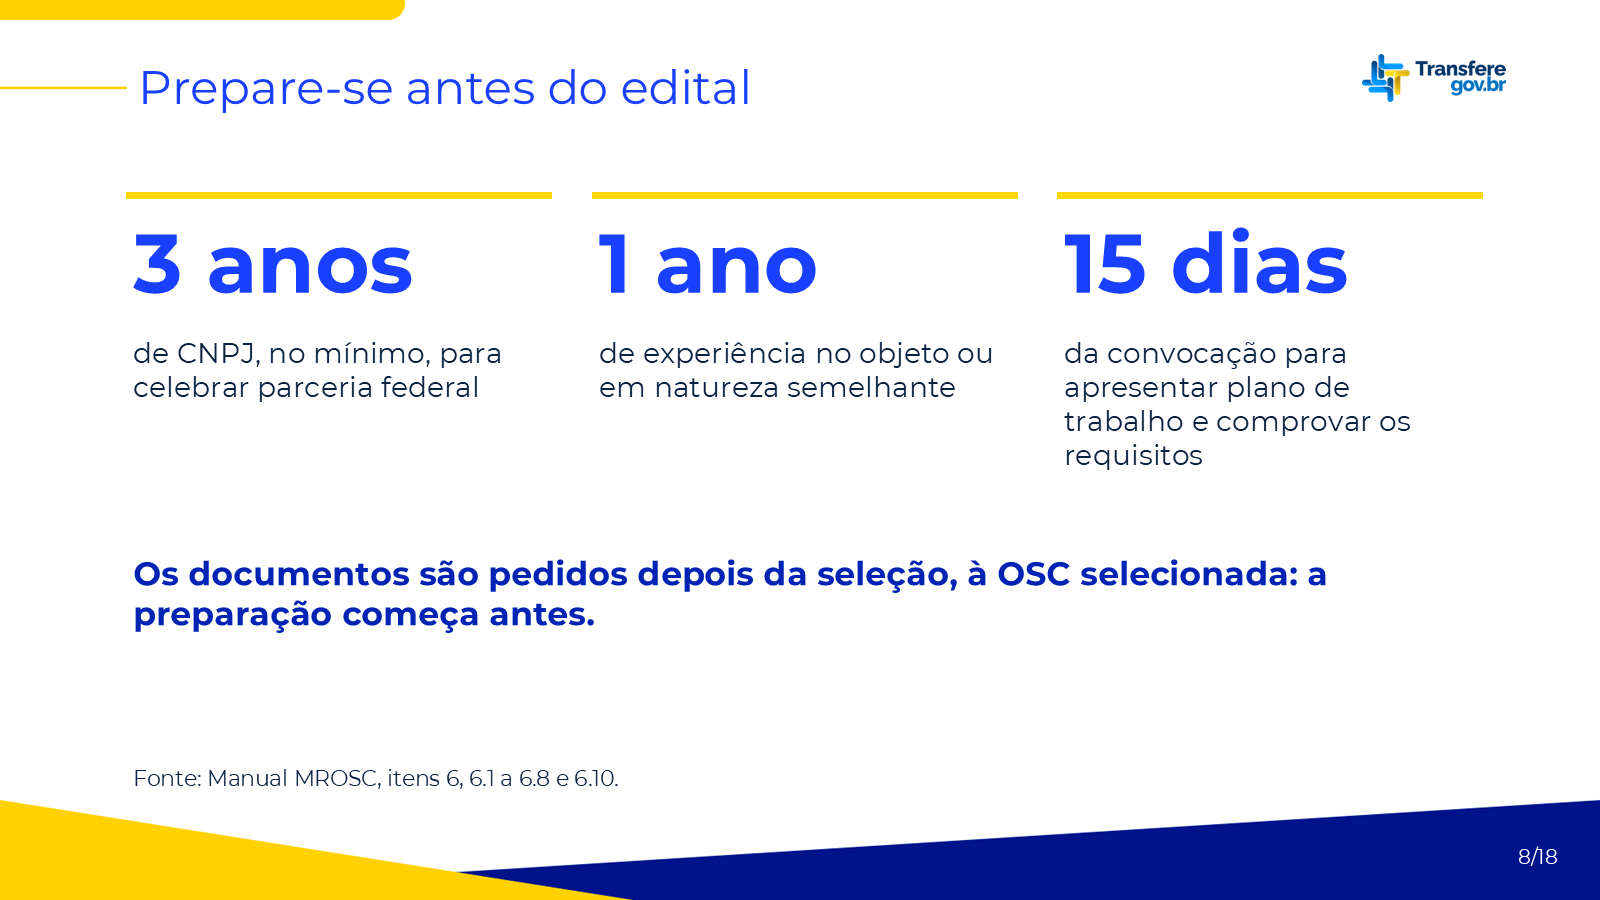
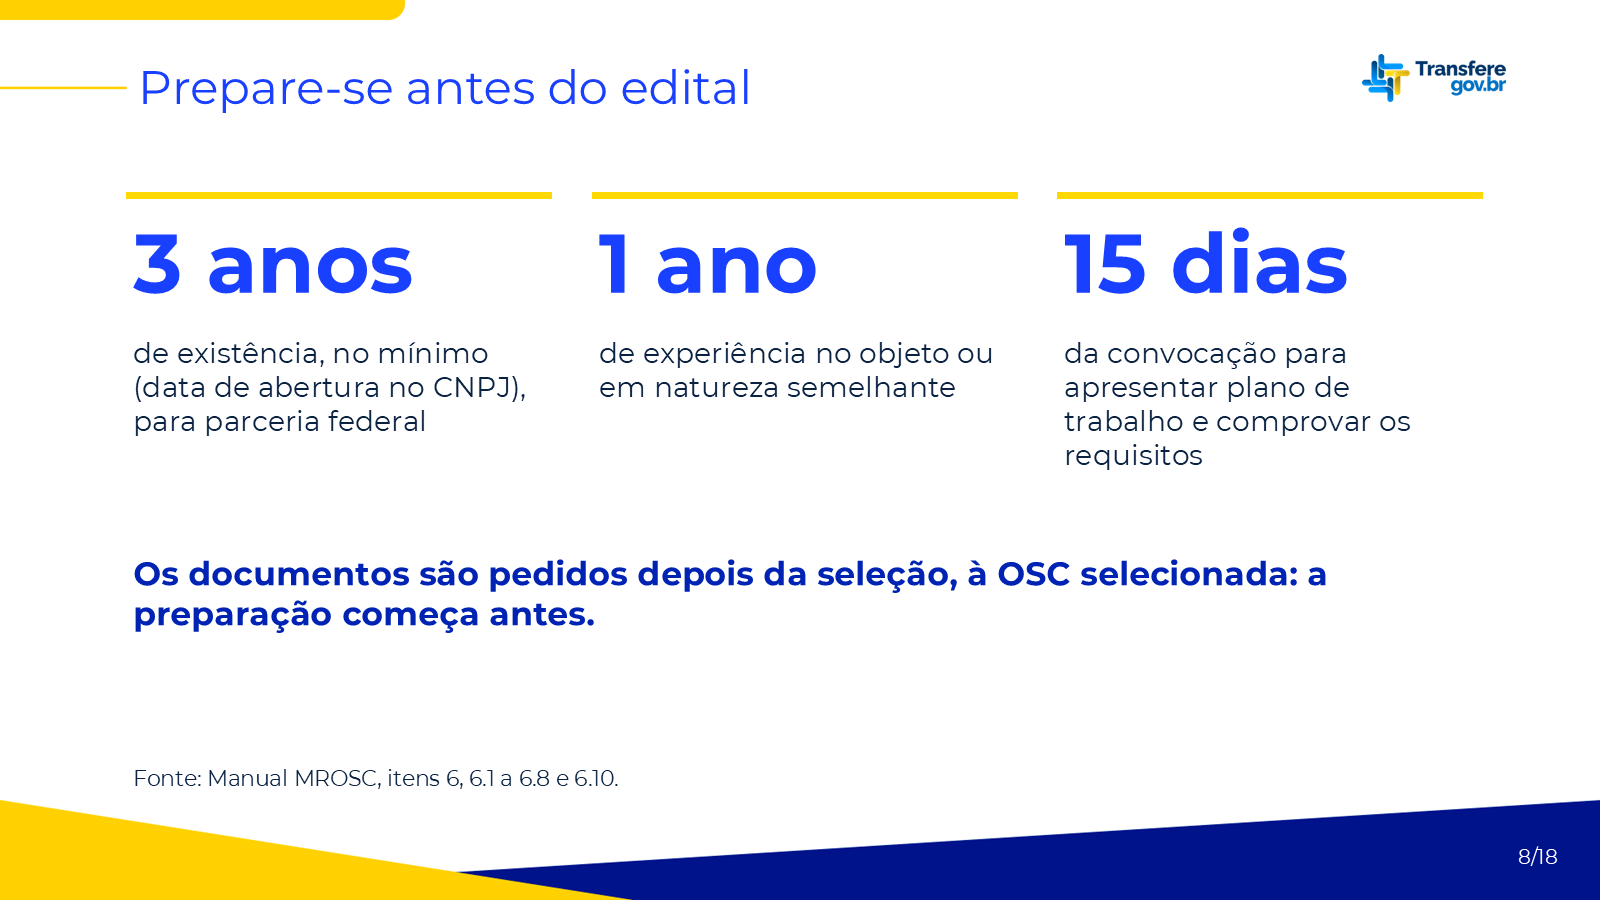
Atualiza os ajustes de precisão da landing e das apresentações
Montado da fonte 06b0997 (conteúdo de 7331dcc; o commit seguinte só mexe
nas notas do apresentador). OBTV mantida; 3 anos de existência pela data
de abertura no CNPJ, certidão vencida e não disponível on-line e prazos
com prorrogações.

Changed region(s): [[0.0938, 0.3733, 0.3125, 0.4978]]

diff --git a/docs/palestra-2-desafios.html b/docs/palestra-2-desafios.html
@@ -173,7 +173,7 @@
     <p class="leitura">Os documentos de requisitos só são pedidos <strong>depois da seleção</strong>, à OSC selecionada, que tem <strong>15 dias</strong> para apresentar o plano de trabalho e comprovar os requisitos. Irregularidade material impede a celebração. <small class="fonte">Fonte: Manual MROSC, itens 6 e 6.10.</small></p>
 
     <ul class="numeros" aria-label="Números-chave dos requisitos">
-      <li><span class="numero-valor">3 anos</span><span class="numero-legenda">de CNPJ, no mínimo, para celebrar parceria na esfera federal</span><small class="fonte">Manual MROSC, itens 6.1 a 6.8.</small></li>
+      <li><span class="numero-valor">3 anos</span><span class="numero-legenda">de existência, no mínimo (data de abertura no CNPJ), para celebrar parceria na esfera federal</span><small class="fonte">Manual MROSC, itens 6.1 a 6.8.</small></li>
       <li><span class="numero-valor">1 ano</span><span class="numero-legenda">de experiência no objeto ou em natureza semelhante, somando as comprovações</span><small class="fonte">Manual MROSC, itens 6.1 a 6.8.</small></li>
       <li><span class="numero-valor">15 dias</span><span class="numero-legenda">da convocação para apresentar o plano de trabalho e comprovar os requisitos</span><small class="fonte">Manual MROSC, item 6.</small></li>
     </ul>
@@ -183,7 +183,7 @@
         <caption id="cap-requisitos">Requisitos para celebrar parceria federal e como comprovar</caption>
         <thead><tr><th scope="col">Requisito</th><th scope="col">Exigência</th><th scope="col">Como comprovar</th></tr></thead>
         <tbody>
-          <tr><th scope="row">Tempo de existência</th><td>Mínimo de 3 anos de CNPJ, situação cadastral ativa</td><td>Data de abertura e situação no cartão CNPJ</td></tr>
+          <tr><th scope="row">Tempo de existência</th><td>Mínimo de 3 anos de existência (data de abertura no CNPJ), situação cadastral ativa</td><td>Data de abertura e situação no cartão CNPJ</td></tr>
           <tr><th scope="row">Objetivos estatutários</th><td>Promoção de atividades e finalidades de relevância pública e social</td><td>Estatuto social</td></tr>
           <tr><th scope="row">Destino do patrimônio na dissolução</th><td>Transferência a pessoa jurídica de igual natureza que cumpra a Lei nº 13.019/2014, de preferência com o mesmo objeto</td><td>Estatuto social</td></tr>
           <tr><th scope="row">Escrituração contábil</th><td>Conforme os princípios fundamentais de contabilidade e as Normas Brasileiras de Contabilidade</td><td>Estatuto, regimento interno ou declaração de contador</td></tr>
@@ -236,7 +236,7 @@
       <div class="resultado" aria-live="polite"></div>
       <div class="explicacoes" hidden>
         <p data-opcao="a">1 ano é o mínimo em municípios; em estados e no DF são 2 anos.</p>
-        <p data-opcao="b">Na esfera federal, o mínimo é de 3 anos de CNPJ, com situação cadastral ativa.</p>
+        <p data-opcao="b">Na esfera federal, o mínimo é de 3 anos de existência, contados pela data de abertura no CNPJ, com situação cadastral ativa.</p>
         <p data-opcao="c">5 anos de CNPJ é o mínimo exigido da OSC que atua em rede.</p>
       </div>
       <p class="fonte-bloco">Fonte: Manual MROSC, itens 6.1 a 6.8.</p>
@@ -255,7 +255,7 @@
           <tr><th scope="row">Seleção</th><td>Proposta sem os 4 itens mínimos</td><td>Eliminação</td><td>Conferir realidade e nexo, ações/metas/indicadores, prazos e valor global</td><td>Item 5.4</td></tr>
           <tr><th scope="row">Seleção</th><td>Submissão não concluída ou recurso fora do prazo</td><td>Proposta não enviada; recurso não conhecido</td><td>Concluir a submissão; contar 5 dias corridos</td><td>Itens 5.2 e 4.12.3</td></tr>
           <tr><th scope="row">Celebração</th><td>CNPJ com menos de 3 anos, estatuto incompleto, dirigente em situação vedada</td><td>Impede a celebração</td><td>Revisar os requisitos antes de concorrer</td><td>Itens 6, 6.1, 6.2 e 6.6</td></tr>
-          <tr><th scope="row">Celebração</th><td>Certidão vencida ou falha formal</td><td>15 dias para corrigir, sob pena de não celebração</td><td>Manter certidões em dia ou usar o CAUC</td><td>Itens 6 e 6.3</td></tr>
+          <tr><th scope="row">Celebração</th><td>Certidão vencida e não disponível on-line, ou falha formal</td><td>15 dias para corrigir, sob pena de não celebração</td><td>Manter certidões em dia ou usar o CAUC</td><td>Itens 6 e 6.3</td></tr>
           <tr><th scope="row">Execução</th><td>Recursos parados por 365 dias</td><td>Rescisão da parceria (exceção justificada se houver execução parcial)</td><td>Executar conforme o cronograma</td><td>Item 7.6</td></tr>
           <tr><th scope="row">Execução</th><td>Irregularidade na aplicação, desvio de finalidade ou medida saneadora ignorada</td><td>Retenção de parcelas</td><td>Seguir o plano e atender às orientações</td><td>Item 7.4</td></tr>
           <tr><th scope="row">Execução</th><td>Despesa com fato gerador anterior à vigência</td><td>Vedada (exceção: custo de elaboração da proposta)</td><td>Contratar só na vigência</td><td>Item 7.7.1</td></tr>

diff --git a/docs/palestra-1-captacao.html b/docs/palestra-1-captacao.html
@@ -615,7 +615,7 @@
     <p class="leitura">Os documentos de requisitos só são pedidos <strong>depois da seleção</strong>, à OSC selecionada, que tem <strong>15 dias</strong> para apresentar o plano de trabalho e comprovar os requisitos. Irregularidade material impede a celebração. Por isso, a preparação começa antes. <small class="fonte">Fonte: Manual MROSC, itens 6 e 6.10.</small></p>
 
     <ul class="numeros" aria-label="Números-chave dos requisitos">
-      <li><span class="numero-valor">3 anos</span><span class="numero-legenda">de CNPJ, no mínimo, para celebrar parceria na esfera federal</span><small class="fonte">Manual MROSC, itens 6.1 a 6.8.</small></li>
+      <li><span class="numero-valor">3 anos</span><span class="numero-legenda">de existência, no mínimo (data de abertura no CNPJ), para celebrar parceria na esfera federal</span><small class="fonte">Manual MROSC, itens 6.1 a 6.8.</small></li>
       <li><span class="numero-valor">1 ano</span><span class="numero-legenda">de experiência no objeto ou em natureza semelhante, somando as comprovações</span><small class="fonte">Manual MROSC, itens 6.1 a 6.8.</small></li>
       <li><span class="numero-valor">15 dias</span><span class="numero-legenda">da convocação para apresentar o plano de trabalho e comprovar os requisitos</span><small class="fonte">Manual MROSC, item 6.</small></li>
     </ul>
@@ -627,7 +627,7 @@
         <caption id="cap-requisitos">Requisitos para celebrar parceria federal e como comprovar</caption>
         <thead><tr><th scope="col">Requisito</th><th scope="col">Exigência</th><th scope="col">Como comprovar</th></tr></thead>
         <tbody>
-          <tr><th scope="row">Tempo de existência</th><td>Mínimo de 3 anos de CNPJ, situação cadastral ativa</td><td>Data de abertura e situação no cartão CNPJ</td></tr>
+          <tr><th scope="row">Tempo de existência</th><td>Mínimo de 3 anos de existência (data de abertura no CNPJ), situação cadastral ativa</td><td>Data de abertura e situação no cartão CNPJ</td></tr>
           <tr><th scope="row">Objetivos estatutários</th><td>Promoção de atividades e finalidades de relevância pública e social</td><td>Estatuto social</td></tr>
           <tr><th scope="row">Destino do patrimônio na dissolução</th><td>Transferência a pessoa jurídica de igual natureza que cumpra a Lei nº 13.019/2014, de preferência com o mesmo objeto</td><td>Estatuto social</td></tr>
           <tr><th scope="row">Escrituração contábil</th><td>Conforme os princípios fundamentais de contabilidade e as Normas Brasileiras de Contabilidade</td><td>Estatuto, regimento interno ou declaração de contador</td></tr>
@@ -1001,7 +1001,7 @@
 
     <h3>Na celebração</h3>
     <ul class="riscos">
-      <li class="risco"><p><span class="rotulo-risco">Risco</span>Certidão vencida ou documento com falha formal</p><p><span class="rotulo-risco">Consequência</span><svg class="icone icone-alerta" aria-hidden="true"><use href="#i-alerta"/></svg>Notificação e 15 dias para corrigir, sob pena de não celebração</p><p><span class="rotulo-risco">Como evitar</span>Mantenha as certidões em dia ou use o extrato do CAUC. <small class="fonte">Manual MROSC, 6 e 6.3.</small></p></li>
+      <li class="risco"><p><span class="rotulo-risco">Risco</span>Certidão vencida e não disponível on-line, ou documento com falha formal</p><p><span class="rotulo-risco">Consequência</span><svg class="icone icone-alerta" aria-hidden="true"><use href="#i-alerta"/></svg>Notificação e 15 dias para corrigir, sob pena de não celebração</p><p><span class="rotulo-risco">Como evitar</span>Mantenha as certidões em dia ou use o extrato do CAUC. <small class="fonte">Manual MROSC, 6 e 6.3.</small></p></li>
       <li class="risco"><p><span class="rotulo-risco">Risco</span>Irregularidade material, como CNPJ com menos de 3 anos ou estatuto sem as cláusulas exigidas</p><p><span class="rotulo-risco">Consequência</span><svg class="icone icone-erro" aria-hidden="true"><use href="#i-impede"/></svg>Impede a celebração</p><p><span class="rotulo-risco">Como evitar</span>Confira a tabela de requisitos antes de concorrer. <small class="fonte">Manual MROSC, 6, 6.1 e 6.2.</small></p></li>
       <li class="risco"><p><span class="rotulo-risco">Risco</span>Dirigente em situação vedada</p><p><span class="rotulo-risco">Consequência</span><svg class="icone icone-erro" aria-hidden="true"><use href="#i-impede"/></svg>Impede a celebração</p><p><span class="rotulo-risco">Como evitar</span>Revise a composição da diretoria e a declaração. <small class="fonte">Manual MROSC, 6.6.</small></p></li>
       <li class="risco"><p><span class="rotulo-risco">Risco</span>Despesa com rubrica genérica ou sem preço de referência</p><p><span class="rotulo-risco">Consequência</span><svg class="icone icone-alerta" aria-hidden="true"><use href="#i-alerta"/></svg>Rubrica genérica: não admitida no plano de trabalho. Sem preço de referência: ajuste no plano</p><p><span class="rotulo-risco">Como evitar</span>Descreva cada item e guarde a pesquisa de preços. <small class="fonte">Manual MROSC, 6.11 e 6.11.7.</small></p></li>

diff --git a/docs/slides-painel.html b/docs/slides-painel.html
@@ -104,7 +104,7 @@
           <p>Bloco 1 · Exigências para participar</p>
 <p>Fonte: Manual MROSC, itens 6, 6.1 a 6.10.</p>
 <p>3 anos</p>
-<p>de CNPJ, no mínimo, na esfera federal</p>
+<p>de existência (data de abertura no CNPJ), na esfera federal</p>
 <p>1 ano</p>
 <p>de experiência no objeto ou em natureza semelhante</p>
 <p>15 dias</p>
@@ -127,7 +127,7 @@
 <p>→ A proposta não é considerada enviada</p>
 <p>Item 5.2</p>
 <p>Celebração</p>
-<p>Certidão vencida</p>
+<p>Certidão vencida e não disponível on-line</p>
 <p>→ Notificação e 15 dias para corrigir</p>
 <p>Item 6 e 6.3</p>
 <p>Execução</p>
@@ -183,11 +183,11 @@
           <p>Contas do objeto: metas e evidências</p>
 <p>Fonte: Manual MROSC, itens 9.1 a 9.4.</p>
 <p>30 dias</p>
-<p>do fim da execução para o relatório final</p>
+<p>do fim da execução para o relatório final, prorrogáveis por 15</p>
 <p>60 dias</p>
-<p>para o relatório financeiro, só se houver descumprimento ou indício de irregularidade</p>
+<p>para o relatório financeiro, prorrogáveis por 15, só se houver descumprimento ou indício de irregularidade</p>
 <p>150 dias</p>
-<p>para o parecer conclusivo da administração</p>
+<p>para o parecer conclusivo da administração, prorrogáveis</p>
 <p>Sem análise em 150 dias, a OSC não fica impedida de celebrar novas parcerias.</p>
 <p>Pergunta ao painel  Que evidências a OSC deve reunir desde o primeiro mês de execução?</p>
         </details>

diff --git a/docs/slides-palestra.html b/docs/slides-palestra.html
@@ -172,7 +172,7 @@
           <p>Prepare-se antes do edital</p>
 <p>Fonte: Manual MROSC, itens 6, 6.1 a 6.8 e 6.10.</p>
 <p>3 anos</p>
-<p>de CNPJ, no mínimo, para celebrar parceria federal</p>
+<p>de existência, no mínimo (data de abertura no CNPJ), para parceria federal</p>
 <p>1 ano</p>
 <p>de experiência no objeto ou em natureza semelhante</p>
 <p>15 dias</p>
